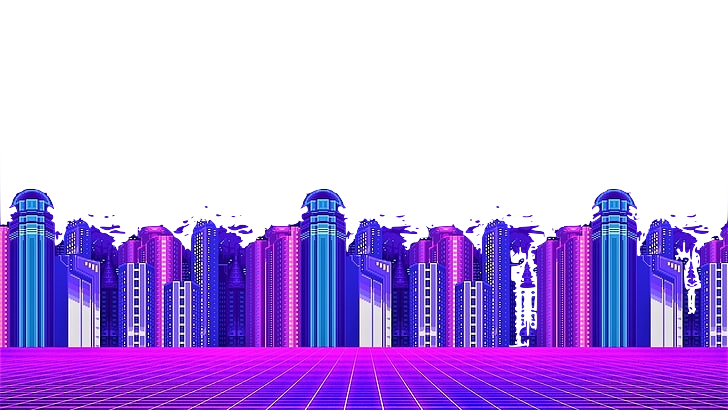
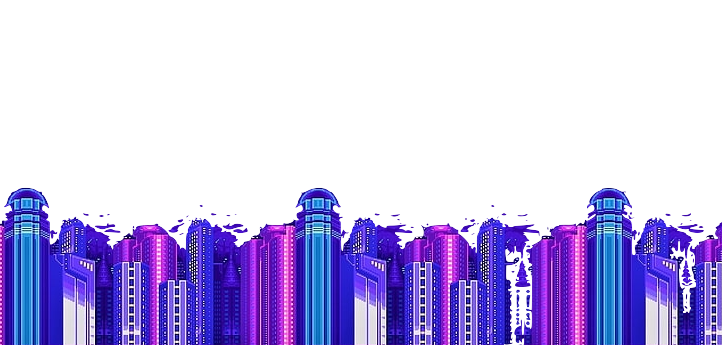
fix: 배경화면 이미지 제대로 적용되게 고쳐줌

diff --git a/frontend/src/pages/waiting-room/page.js b/frontend/src/pages/waiting-room/page.js
@@ -1,43 +1,49 @@
-import { importCss } from '../../utils/importCss.js';
-import {hover} from "../../utils/hoverEvent.js";
-import userBox from './userBox.js';
+import { importCss } from "../../utils/importCss.js";
+import { hover } from "../../utils/hoverEvent.js";
+import userBox from "./userBox.js";
 /**
  * @param {HTMLElement} $container
  */
 export default function WaitingRoom($container) {
-    this.$container = $container;
-    this.roomTitle = '방 제목';
-    this.gameMode = '게임 모드';
-    this.password = 'password';
-    this.gameModeNum = 4;
-    this.setState = () => {
-        this.render();
-        hover(this.$container.querySelector('.room-lock'),
-            () => {this.$container.querySelector('.room-password-modal').style.display = 'inline';},
-            () => {this.$container.querySelector('.room-password-modal').style.display = 'none';});
-    };
+  this.$container = $container;
+  this.roomTitle = "방 제목";
+  this.gameMode = "게임 모드";
+  this.password = "password";
+  this.gameModeNum = 4;
+  this.setState = () => {
+    this.render();
+    hover(
+      this.$container.querySelector(".room-lock"),
+      () => {
+        this.$container.querySelector(".room-password-modal").style.display =
+          "inline";
+      },
+      () => {
+        this.$container.querySelector(".room-password-modal").style.display =
+          "none";
+      },
+    );
+  };
 
-    this.render = () => {
-        importCss('../../../assets/css/waiting-room.css');
-        this.$container.innerHTML = `
-          <div class="waiting-room-wrapper" style="background-image: url('../../../assets/images/game_room_bg_trans.png'); display: flex; flex-direction: column; justify-content: center; align-items: center">
-            <div class="room-name-wrapper" style="width: 100vw; height: 10vh">
-              <div class="room-name-box" style="display: flex; align-items: center; margin-top: 2vh">
-                <img class="room-lock" alt="lock" src="../../../assets/images/password.png" style="margin-left: 5vw; margin-bottom: 0.4vh; width: 2vw; height: 2.8vh; -webkit-user-drag: none; user-select: none;">
-                <div class="room-name-text" style="margin-left: 1vw; font-size: 3vh;font-family: Galmuri11,serif; color: white">${this.roomTitle} | ${this.gameMode}</div>
-                <img class="room-name-edit" alt="setting" src="../../../assets/images/setting.png" style="margin-left: 0.5vw; margin-bottom: 0.4vh; width: 1.8vw; height: 3vh;-webkit-user-drag: none; user-select: none;">
-              </div>
-              <div class="room-password-modal" style="display: none; margin-left: 5vw; font-size: 1.5vh; color: white; font-family: Galmuri11,serif">
-                <span style="background-color: black; padding: 0.4vh;">${this.password}</span>
-              </div>
-             ${userBox(this.gameModeNum)}
-             <div class="start-btn-wrapper" style="width: 100vw; height: 10vh; display: flex; justify-content: center; align-items: center">
-                <button class="start-btn" style="background: linear-gradient(to bottom, #D80000, #FF0000); font-family: Galmuri11-Bold, serif; color: white; border: 4px solid darkred; padding: 10px 40px; text-align: center; text-decoration: none; display: inline-block; font-size: 32px; margin: 4px 2px; cursor: pointer; border-radius: 5vh;">START</button>
-             </div>
-            </div>
+  this.render = () => {
+    importCss("../../../assets/css/waiting-room.css");
+    this.$container.innerHTML = `
+      <div class="waiting-room-wrapper" style="background-image: url('../../../assets/images/game_room_bg_trans.png'); background-size: 100% 50%; background-repeat: no-repeat; background-position: center bottom; width: 100vw; height: 88vh; display: flex; flex-direction: column; justify-content: center; align-items: center">
+        <div class="room-name-box" style="align-self: flex-start;display: flex; align-items: center; margin-top: 2vh">
+          <img class="room-lock" alt="lock" src="../../../assets/images/password.png" style="margin-left: 5vw; margin-bottom: 0.4vh; width: 2vw; height: 2.8vh; -webkit-user-drag: none; user-select: none;">
+          <div class="room-name-text" style="margin-left: 1vw; font-size: 3vh;font-family: Galmuri11,serif; color: white">${this.roomTitle} | ${this.gameMode}</div>
+          <img class="room-name-edit" alt="setting" src="../../../assets/images/setting.png" style="margin-left: 0.5vw; margin-bottom: 0.4vh; width: 1.8vw; height: 3vh;-webkit-user-drag: none; user-select: none;">
+        </div>
+          <div class="room-password-modal" style="display: none; margin-left: 5vw; font-size: 1.5vh; color: white; font-family: Galmuri11,serif">
+            <span style="background-color: black; padding: 0.4vh;">${this.password}</span>
           </div>
+          ${userBox(this.gameModeNum)}
+          <div class="start-btn-wrapper" style="width: 100vw; height: 10vh; display: flex; justify-content: center; align-items: center">
+            <button class="start-btn" style="background: linear-gradient(to bottom, #D80000, #FF0000); font-family: Galmuri11-Bold, serif; color: white; border: 4px solid darkred; padding: 10px 40px; text-align: center; text-decoration: none; display: inline-block; font-size: 32px; margin: 4px 2px; cursor: pointer; border-radius: 5vh;">START</button>
+          </div>
+      </div>
         `;
-    };
+  };
 
-    this.setState();
+  this.setState();
 }
